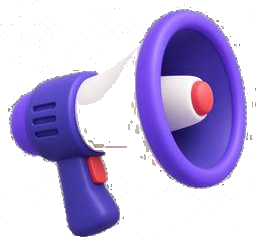
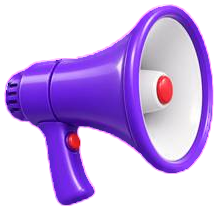
Leaderboard: one podium with a People / Departments switch, cleaner clay art
- The stage shows a single podium: Top people by default, Top
  departments via a segmented switch at its top-left. Departments use
  the same full-size pedestals; the swap slides between the two.
- New clay trophy and megaphone art, keyed from a flat background so
  there is no leftover checkerboard or edge fringe; shown smaller
  (60px) in the scope capsules.

diff --git a/frontend/VShield/src/Pages/Leaderboard/Leaderboard.jsx b/frontend/VShield/src/Pages/Leaderboard/Leaderboard.jsx
@@ -1,5 +1,5 @@
 import { useEffect, useMemo, useRef, useState } from 'react';
-import { motion, useReducedMotion } from 'framer-motion';
+import { AnimatePresence, motion, useReducedMotion } from 'framer-motion';
 import { ClipboardCheck, Flag, GraduationCap, KeyRound, MailOpen, MousePointerClick } from 'lucide-react';
 import { useUserType } from '../../UserTypeContext/UserTypeContext';
 import { useGamificationRules } from '../../services/useGamificationRules';
@@ -20,8 +20,8 @@ import CampaignMegaphone from '../../assets/LeaderboardAssets/CampaignMegaphone.
 // Layout follows Requests & Approvals: a left rail (your standing on top, then
 // the Global / My Campaigns scope capsules with clay corner art, then the live
 // points rules or the list of ongoing campaigns) and a right L-shaped "sheet":
-// stat tiles, a stage with two podiums (top departments, top people), and the
-// paginated ranked list. The viewer is highlighted red in light mode and white
+// stat tiles, a podium stage that switches between top people and top
+// departments, and the paginated ranked list. The viewer is highlighted red in light mode and white
 // in dark mode.
 //
 // The page is locked to the viewport: nothing scrolls except the campaign list
@@ -46,15 +46,6 @@ const FONT_IMPORT = `
   .lb-cap:hover .lb-art { transform: translateY(-4px) rotate(-6deg) scale(1.08); }
   .lb-cap[aria-pressed="true"] .lb-art { animation: lb-float 3.2s ease-in-out infinite; }
   @keyframes lb-float { 0%, 100% { translate: 0 0; } 50% { translate: 0 -5px; } }
-
-  /* Stage: department podium beside the people podium; departments drop out
-     when the sheet is too narrow for both */
-  .lb-sheet { container-type: inline-size; }
-  .lb-stage { display: grid; grid-template-columns: minmax(0, 1fr) minmax(0, 1.5fr); align-items: end; column-gap: 16px; }
-  @container (max-width: 900px) {
-    .lb-stage { grid-template-columns: minmax(0, 1fr); }
-    .lb-side { display: none !important; }
-  }
 
   /* Viewer's own pill in the footer: click to jump to their page */
   .lb-me { transition: box-shadow .15s ease, transform .15s ease; }
@@ -165,12 +156,6 @@ const PLACE = {
   first: { w: 184, h: 76, num: 34, av: 60, medal: MEDAL.first, fill: 'var(--c-peach)', delay: 0.26 },
   second: { w: 160, h: 54, num: 26, av: 50, medal: MEDAL.second, fill: 'var(--c-lav)', delay: 0.08 },
   third: { w: 160, h: 40, num: 22, av: 50, medal: MEDAL.third, fill: 'var(--c-mint)', delay: 0.16 },
-};
-// The department podium is a smaller version of the people one.
-const PLACE_SM = {
-  first: { w: 124, h: 46, num: 24, av: 46, medal: MEDAL.first, fill: 'var(--c-peach)', delay: 0.32 },
-  second: { w: 112, h: 32, num: 19, av: 40, medal: MEDAL.second, fill: 'var(--c-lav)', delay: 0.14 },
-  third: { w: 112, h: 24, num: 17, av: 40, medal: MEDAL.third, fill: 'var(--c-mint)', delay: 0.22 },
 };
 const NUMERAL = { first: '1', second: '2', third: '3' };
 const DEPT_CODE = { Finance: 'FIN', 'IT Security': 'SEC', Operations: 'OPS', 'Human Res.': 'HR', Sales: 'SAL', Legal: 'LEG', IT: 'IT', Marketing: 'MKT' };
@@ -283,10 +268,10 @@ const SPARKLES = [
   { bottom: -2, right: -18, s: 10, d: 1.2 },
 ];
 
-const Pedestal = ({ person: p, place, reduce, small }) => {
-  const c = (small ? PLACE_SM : PLACE)[place];
+const Pedestal = ({ person: p, place, reduce }) => {
+  const c = PLACE[place];
   const first = place === 'first';
-  const flair = first && !small && !reduce; // pulse ring + sparkles on the people champion only
+  const flair = first && !reduce; // pulse ring + sparkles on the champion
   return (
     <motion.div
       initial={reduce ? false : { y: 60, opacity: 0 }}
@@ -297,7 +282,7 @@ const Pedestal = ({ person: p, place, reduce, small }) => {
     >
       {first && (
         <span style={{ color: MEDAL.first, display: 'flex', marginBottom: 1 }}>
-          <svg width={small ? 16 : 20} height={small ? 16 : 20} viewBox="0 0 24 24" fill="none" stroke="currentColor" strokeWidth="1.8" strokeLinejoin="round"><path d="M3 7l4 4 5-6 5 6 4-4-2 12H5L3 7z" /></svg>
+          <svg width="20" height="20" viewBox="0 0 24 24" fill="none" stroke="currentColor" strokeWidth="1.8" strokeLinejoin="round"><path d="M3 7l4 4 5-6 5 6 4-4-2 12H5L3 7z" /></svg>
         </span>
       )}
       <span style={{ position: 'relative', display: 'flex' }}>
@@ -322,10 +307,10 @@ const Pedestal = ({ person: p, place, reduce, small }) => {
         ))}
         <Avatar initials={p.initials} size={c.av} ring={c.medal} />
       </span>
-      <div style={{ fontSize: small ? (first ? 13.5 : 12.5) : (first ? 16 : 14.5), fontWeight: 800, marginTop: 7, textAlign: 'center', lineHeight: 1.15, color: 'var(--text)' }}>{p.name}</div>
-      <div style={{ fontSize: small ? 10.5 : 11.5, fontWeight: 600, color: 'var(--muted)', marginTop: 1 }}>{p.dept}</div>
-      <div style={{ display: 'flex', flexDirection: small ? 'column' : 'row', alignItems: 'center', gap: small ? 4 : 6, marginTop: 5 }}>
-        <span className={first ? 'lb-exb' : 'lb-mono'} style={{ fontSize: small ? (first ? 17 : 14) : (first ? 22 : 17), fontWeight: 800, lineHeight: 1, color: 'var(--text)' }}>{p.pts}</span>
+      <div style={{ fontSize: first ? 16 : 14.5, fontWeight: 800, marginTop: 7, textAlign: 'center', lineHeight: 1.15, color: 'var(--text)' }}>{p.name}</div>
+      <div style={{ fontSize: 11.5, fontWeight: 600, color: 'var(--muted)', marginTop: 1 }}>{p.dept}</div>
+      <div style={{ display: 'flex', alignItems: 'center', gap: 6, marginTop: 5 }}>
+        <span className={first ? 'lb-exb' : 'lb-mono'} style={{ fontSize: first ? 22 : 17, fontWeight: 800, lineHeight: 1, color: 'var(--text)' }}>{p.pts}</span>
         <Chip kind="good">{p.rep} reported</Chip>
       </div>
       <div
@@ -396,11 +381,37 @@ const StatTile = ({ label, value, rate, bg, ink }) => (
   </div>
 );
 
-// Small heading pinned to the top-left of a podium on the stage.
-const StageLabel = ({ title, sub }) => (
-  <div style={{ position: 'absolute', top: 4, left: 0, pointerEvents: 'none' }}>
-    <div style={{ fontSize: 12.5, fontWeight: 800, color: 'var(--text)' }}>{title}</div>
-    <div style={{ fontSize: 10, fontWeight: 600, color: 'var(--muted)', marginTop: 1 }}>{sub}</div>
+// People / Departments switch pinned to the top-left of the podium stage.
+const STAGES = [{ id: 'people', label: 'Top people' }, { id: 'depts', label: 'Top departments' }];
+
+const StageSwitch = ({ value, onChange, sub, canDepts }) => (
+  <div style={{ position: 'absolute', top: 8, left: 24, zIndex: 1 }}>
+    <div role="tablist" aria-label="Podium" style={{ display: 'inline-flex', padding: 3, gap: 2, borderRadius: 999, background: 'var(--track)' }}>
+      {STAGES.map((st) => {
+        const on = value === st.id;
+        const disabled = st.id === 'depts' && !canDepts;
+        return (
+          <button
+            key={st.id}
+            type="button"
+            role="tab"
+            aria-selected={on}
+            disabled={disabled}
+            onClick={() => onChange(st.id)}
+            className="lb-pg"
+            style={{
+              height: 28, padding: '0 14px', borderRadius: 999, border: 'none', cursor: on ? 'default' : 'pointer',
+              fontSize: 11.5, fontWeight: 800, whiteSpace: 'nowrap',
+              background: on ? 'var(--base)' : 'transparent', color: on ? 'var(--text)' : 'var(--muted)',
+              boxShadow: on ? '0 1px 3px rgba(15,23,42,0.14)' : 'none', transition: 'background .15s ease, color .15s ease',
+            }}
+          >
+            {st.label}
+          </button>
+        );
+      })}
+    </div>
+    <div style={{ fontSize: 10.5, fontWeight: 600, color: 'var(--muted)', margin: '6px 0 0 6px' }}>{sub}</div>
   </div>
 );
 
@@ -453,6 +464,7 @@ const Leaderboard = ({ onClose }) => {
   const [view, setView] = useState('global'); // 'global' | 'campaign'
   const [campaignId, setCampaignId] = useState(CAMPAIGNS[0].id);
   const [page, setPage] = useState(0);
+  const [stage, setStage] = useState('people'); // podium shows 'people' or 'depts'
   const [rowsPerPage, setRowsPerPage] = useState(7);
   const listRef = useRef(null);
 
@@ -493,6 +505,10 @@ const Leaderboard = ({ onClose }) => {
   }, [scope, youName, youInitials]);
 
   const insights = useMemo(() => boardInsights(scope.board), [scope]);
+  // Which podium the stage shows; falls back to people if departments can't be ranked.
+  const podium = stage === 'depts' && insights.deptPodium
+    ? { id: 'depts', board: insights.deptPodium }
+    : { id: 'people', board: scope.board.podium };
 
   // Standing vs the person one place above — a small goal + progress bar.
   const standing = useMemo(() => {
@@ -544,7 +560,7 @@ const Leaderboard = ({ onClose }) => {
       >
         <div style={{ position: 'relative', fontSize: 16, fontWeight: 800, letterSpacing: '-0.01em', color: selected ? activeColor : 'var(--text)' }}>{label}</div>
         <div style={{ position: 'relative', fontSize: 10.5, fontWeight: 600, color: 'var(--muted)', marginTop: 4, lineHeight: 1.35, maxWidth: 170 }}>{sub}</div>
-        <img className="lb-art" src={art} alt="" aria-hidden style={{ position: 'absolute', bottom: -6, right: -4, width: 76, height: 76, objectFit: 'contain', pointerEvents: 'none', filter: 'drop-shadow(0 6px 10px rgba(15,23,42,0.18))' }} />
+        <img className="lb-art" src={art} alt="" aria-hidden style={{ position: 'absolute', bottom: 0, right: 2, width: 60, height: 60, objectFit: 'contain', pointerEvents: 'none', filter: 'drop-shadow(0 6px 10px rgba(15,23,42,0.18))' }} />
       </button>
     );
   };
@@ -715,25 +731,30 @@ const Leaderboard = ({ onClose }) => {
             </div>
 
             {/* lower base of the L: podium, ranked list, footer */}
-            <div className="lb-sheet" style={{ flex: 1, minHeight: 0, display: 'flex', flexDirection: 'column', background: 'var(--base)', borderLeft: '1px solid var(--hair)', borderRight: '1px solid var(--hair)', borderBottom: '1px solid var(--hair)', borderRadius: `${L_R}px 0 ${L_R}px ${L_R}px`, overflow: 'hidden' }}>
+            <div style={{ flex: 1, minHeight: 0, display: 'flex', flexDirection: 'column', background: 'var(--base)', borderLeft: '1px solid var(--hair)', borderRight: '1px solid var(--hair)', borderBottom: '1px solid var(--hair)', borderRadius: `${L_R}px 0 ${L_R}px ${L_R}px`, overflow: 'hidden' }}>
 
-              {/* stage, lit from below: top departments (left) and top people (right) */}
-              <div className="lb-stage" style={{ flexShrink: 0, padding: '6px 24px 4px', background: 'radial-gradient(34% 92% at 62% 100%, rgba(232,179,11,0.12), transparent 72%)' }}>
-                {insights.deptPodium && (
-                  <div className="lb-side" style={{ position: 'relative', alignSelf: 'stretch', display: 'flex', alignItems: 'flex-end', justifyContent: 'center', gap: 14, paddingTop: 34 }}>
-                    <StageLabel title="Top departments" sub="Average points per person" />
-                    <Pedestal small person={insights.deptPodium.second} place="second" reduce={reduce} />
-                    <Pedestal small person={insights.deptPodium.first} place="first" reduce={reduce} />
-                    <Pedestal small person={insights.deptPodium.third} place="third" reduce={reduce} />
-                  </div>
-                )}
-
-                <div style={{ position: 'relative', display: 'flex', alignItems: 'flex-end', justifyContent: 'center', gap: 22 }}>
-                  <StageLabel title="Top people" sub={view === 'global' ? 'Across every campaign' : 'In this campaign'} />
-                  <Pedestal person={scope.board.podium.second} place="second" reduce={reduce} />
-                  <Pedestal person={scope.board.podium.first} place="first" reduce={reduce} />
-                  <Pedestal person={scope.board.podium.third} place="third" reduce={reduce} />
-                </div>
+              {/* podium stage, lit from below: top people, or top departments via the switch */}
+              <div style={{ flexShrink: 0, position: 'relative', padding: '6px 24px 4px', background: 'radial-gradient(40% 92% at 50% 100%, rgba(232,179,11,0.12), transparent 72%)' }}>
+                <StageSwitch
+                  value={podium.id}
+                  onChange={setStage}
+                  canDepts={Boolean(insights.deptPodium)}
+                  sub={podium.id === 'depts' ? 'Average points per person' : view === 'global' ? 'Across every campaign' : 'In this campaign'}
+                />
+                <AnimatePresence mode="wait" initial={false}>
+                  <motion.div
+                    key={`${podium.id}-${view}-${campaignId}`}
+                    initial={reduce ? false : { opacity: 0, x: podium.id === 'depts' ? 24 : -24 }}
+                    animate={{ opacity: 1, x: 0 }}
+                    exit={reduce ? { opacity: 0 } : { opacity: 0, x: podium.id === 'depts' ? -24 : 24 }}
+                    transition={{ duration: 0.2, ease: 'easeOut' }}
+                    style={{ display: 'flex', alignItems: 'flex-end', justifyContent: 'center', gap: 22 }}
+                  >
+                    <Pedestal person={podium.board.second} place="second" reduce={reduce} />
+                    <Pedestal person={podium.board.first} place="first" reduce={reduce} />
+                    <Pedestal person={podium.board.third} place="third" reduce={reduce} />
+                  </motion.div>
+                </AnimatePresence>
               </div>
 
               {/* column header */}
